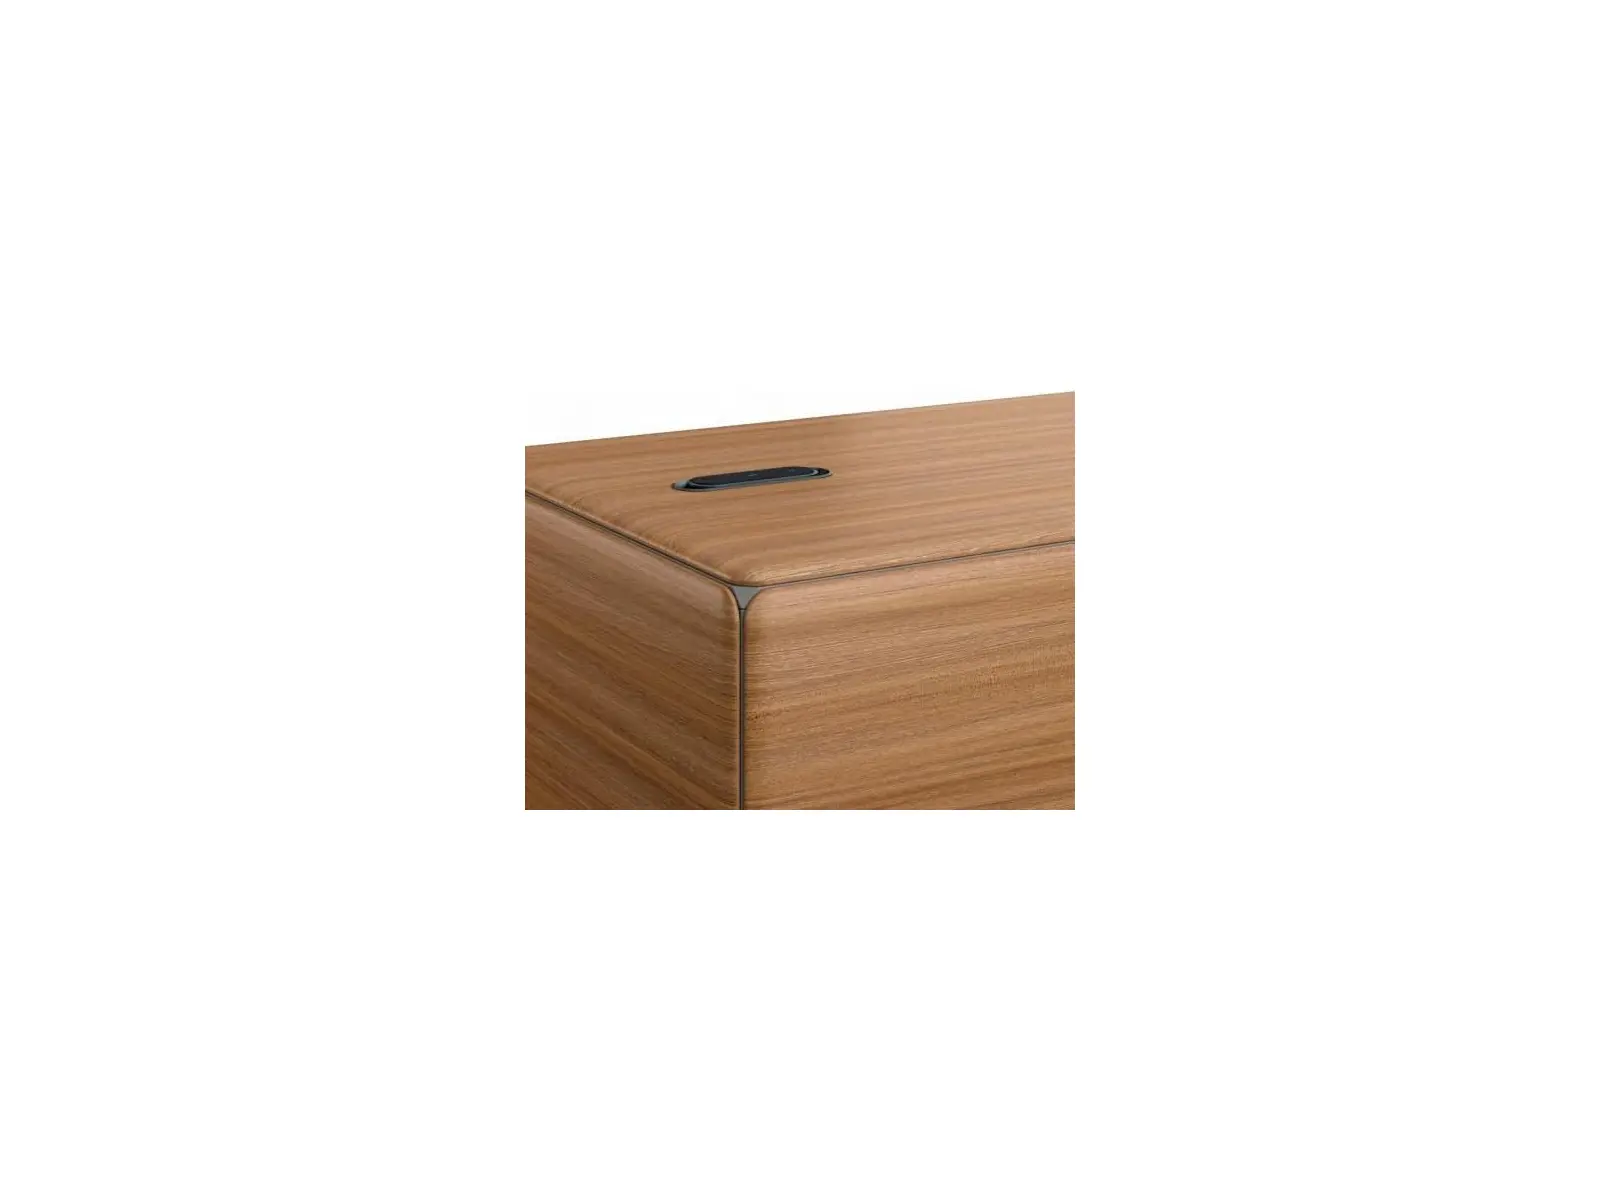
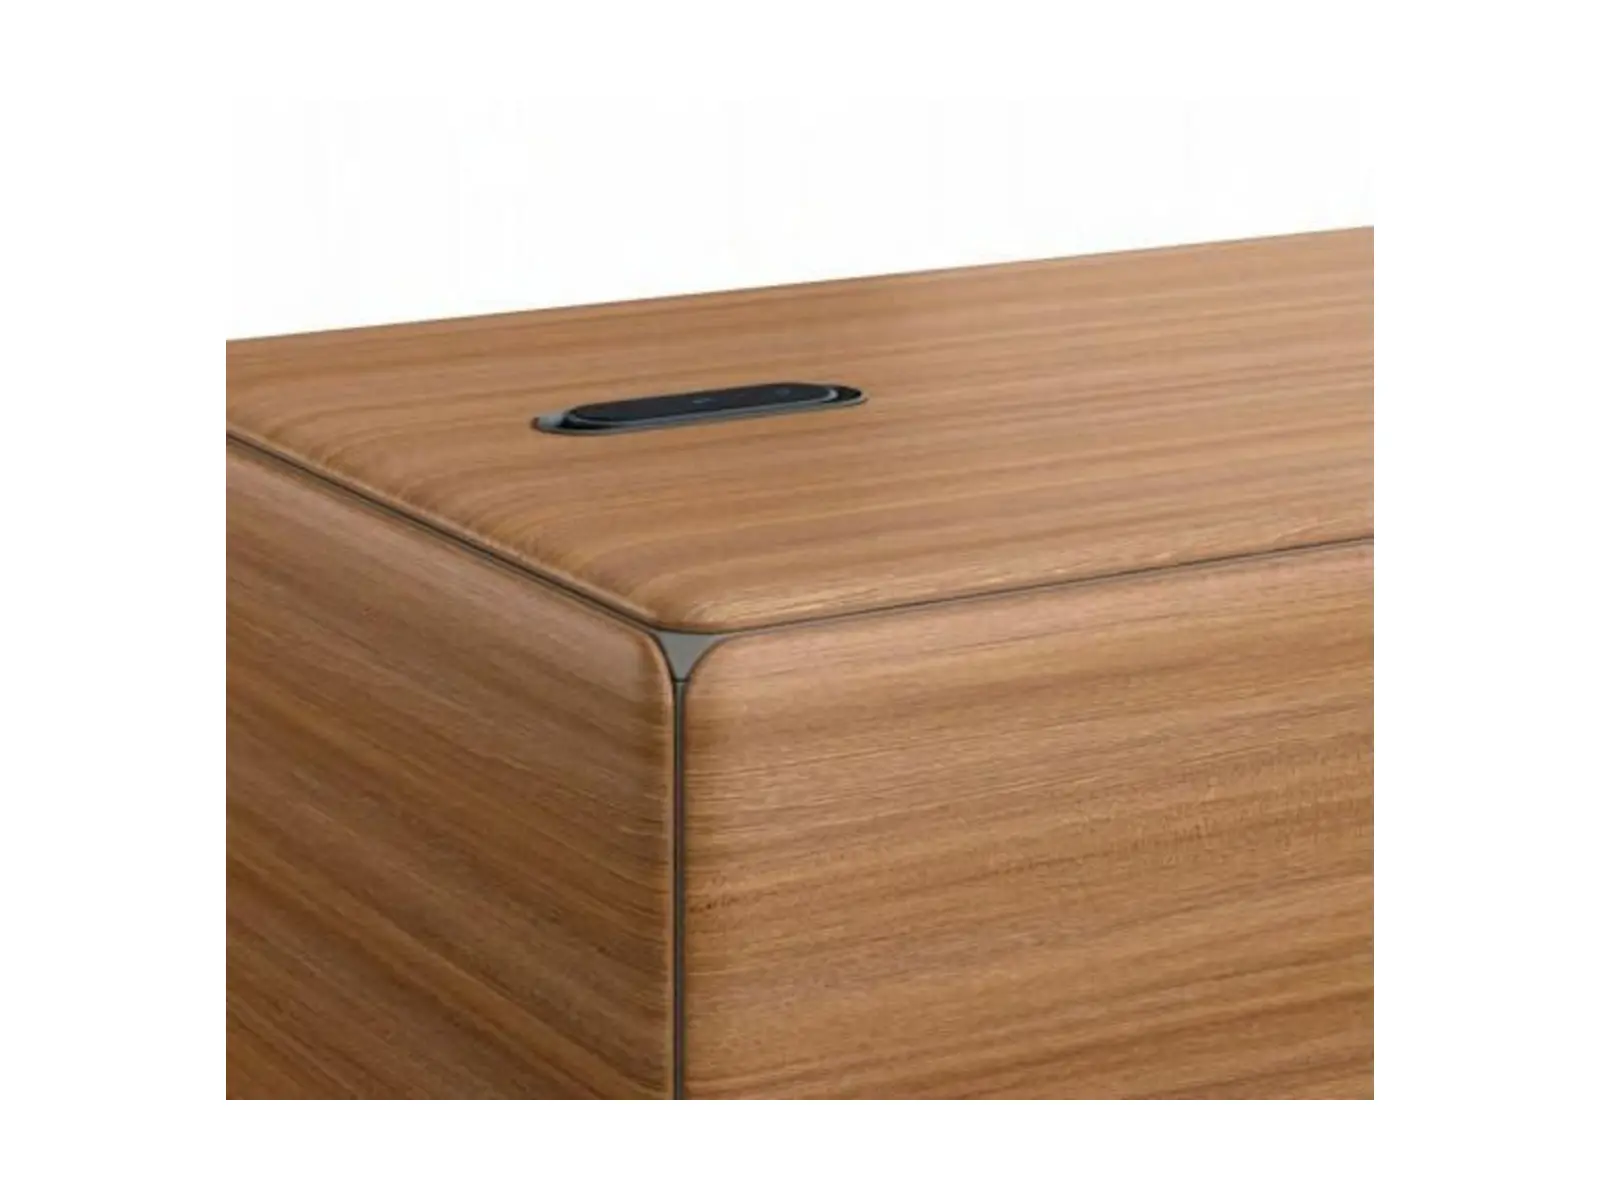
Refine executive desk gallery images

diff --git a/products/do-sdg-01d32-executive-office-desk.html b/products/do-sdg-01d32-executive-office-desk.html
@@ -1,4 +1,4 @@
-<!doctype html><html lang="en"><head><meta charset="utf-8"><meta name="viewport" content="width=device-width,initial-scale=1"><title>DO-SDG-01D32 Executive Office Desk | HUANGSI</title><meta name="description" content="HUANGSI DO-SDG-01D32 executive office desk for commercial interiors, project purchasing and OEM configuration for distributors and commercial projects."><link rel="canonical" href="https://huangsifurniture.com/products/do-sdg-01d32-executive-office-desk"><meta property="og:type" content="product"><meta property="og:site_name" content="HUANGSI"><meta property="og:title" content="DO-SDG-01D32 Executive Office Desk | HUANGSI"><meta property="og:description" content="HUANGSI DO-SDG-01D32 executive office desk for commercial interiors, project purchasing and OEM configuration for distributors and commercial projects."><meta property="og:url" content="https://huangsifurniture.com/products/do-sdg-01d32-executive-office-desk"><meta property="og:image" content="https://huangsifurniture.com/assets/images/executive-desk-details/do-sdg-01d32/view-01.webp"><meta name="twitter:card" content="summary_large_image"><link rel="preload" as="image" href="/assets/images/executive-desk-details/do-sdg-01d32/view-01.webp" fetchpriority="high"><link rel="icon" href="/favicon.svg" type="image/svg+xml"><link rel="stylesheet" href="/assets/css/styles.css"><link rel="stylesheet" href="/assets/css/m15-chair-detail.css"><link rel="stylesheet" href="/assets/css/executive-desk-detail-gallery.css"><script defer src="/assets/js/main.js"></script><script defer src="/assets/js/m15-chair-detail.js"></script><script type="application/ld+json">{"@context":"https://schema.org","@type":"Product","name":"DO-SDG-01D32 Executive Office Desk","sku":"DO-SDG-01D32","description":"HUANGSI DO-SDG-01D32 executive office desk for commercial interiors, project purchasing and OEM configuration for distributors and commercial projects.","brand":{"@type":"Brand","name":"HUANGSI"},"manufacturer":{"@type":"Organization","name":"Foshan Huangsi Furniture Co., Ltd."},"category":"President's Tables and Executive Office Desks","url":"https://huangsifurniture.com/products/do-sdg-01d32-executive-office-desk","image":["https://huangsifurniture.com/assets/images/executive-desk-details/do-sdg-01d32/view-01.webp","https://huangsifurniture.com/assets/images/executive-desk-details/do-sdg-01d32/view-02.webp","https://huangsifurniture.com/assets/images/executive-desk-details/do-sdg-01d32/view-03.webp"]}</script><script type="application/ld+json">{"@context":"https://schema.org","@type":"BreadcrumbList","itemListElement":[{"@type":"ListItem","position":1,"name":"Home","item":"https://huangsifurniture.com/"},{"@type":"ListItem","position":2,"name":"President's Tables","item":"https://huangsifurniture.com/products/executive-office-desk/page-4"},{"@type":"ListItem","position":3,"name":"DO-SDG-01D32","item":"https://huangsifurniture.com/products/do-sdg-01d32-executive-office-desk"}]}</script></head><body class="m15-page executive-desk-detail-page" style="--gallery-columns:3"><div class="topbar home-topbar">
+<!doctype html><html lang="en"><head><meta charset="utf-8"><meta name="viewport" content="width=device-width,initial-scale=1"><title>DO-SDG-01D32 Executive Office Desk | HUANGSI</title><meta name="description" content="HUANGSI DO-SDG-01D32 executive office desk for commercial interiors, project purchasing and OEM configuration for distributors and commercial projects."><link rel="canonical" href="https://huangsifurniture.com/products/do-sdg-01d32-executive-office-desk"><meta property="og:type" content="product"><meta property="og:site_name" content="HUANGSI"><meta property="og:title" content="DO-SDG-01D32 Executive Office Desk | HUANGSI"><meta property="og:description" content="HUANGSI DO-SDG-01D32 executive office desk for commercial interiors, project purchasing and OEM configuration for distributors and commercial projects."><meta property="og:url" content="https://huangsifurniture.com/products/do-sdg-01d32-executive-office-desk"><meta property="og:image" content="https://huangsifurniture.com/assets/images/executive-desk-details/do-sdg-01d32/view-01.webp"><meta name="twitter:card" content="summary_large_image"><link rel="preload" as="image" href="/assets/images/executive-desk-details/do-sdg-01d32/view-01.webp" fetchpriority="high"><link rel="icon" href="/favicon.svg" type="image/svg+xml"><link rel="stylesheet" href="/assets/css/styles.css"><link rel="stylesheet" href="/assets/css/m15-chair-detail.css"><link rel="stylesheet" href="/assets/css/executive-desk-detail-gallery.css"><script defer src="/assets/js/main.js"></script><script defer src="/assets/js/m15-chair-detail.js"></script><script type="application/ld+json">{"@context":"https://schema.org","@type":"Product","name":"DO-SDG-01D32 Executive Office Desk","sku":"DO-SDG-01D32","description":"HUANGSI DO-SDG-01D32 executive office desk for commercial interiors, project purchasing and OEM configuration for distributors and commercial projects.","brand":{"@type":"Brand","name":"HUANGSI"},"manufacturer":{"@type":"Organization","name":"Foshan Huangsi Furniture Co., Ltd."},"category":"President's Tables and Executive Office Desks","url":"https://huangsifurniture.com/products/do-sdg-01d32-executive-office-desk","image":["https://huangsifurniture.com/assets/images/executive-desk-details/do-sdg-01d32/view-01.webp","https://huangsifurniture.com/assets/images/executive-desk-details/do-sdg-01d32/view-02.webp"]}</script><script type="application/ld+json">{"@context":"https://schema.org","@type":"BreadcrumbList","itemListElement":[{"@type":"ListItem","position":1,"name":"Home","item":"https://huangsifurniture.com/"},{"@type":"ListItem","position":2,"name":"President's Tables","item":"https://huangsifurniture.com/products/executive-office-desk/page-4"},{"@type":"ListItem","position":3,"name":"DO-SDG-01D32","item":"https://huangsifurniture.com/products/do-sdg-01d32-executive-office-desk"}]}</script></head><body class="m15-page executive-desk-detail-page" style="--gallery-columns:2"><div class="topbar home-topbar">
     <div class="container">
       <span>Commercial office furniture for distributors, contractors and project buyers</span>
       <span>OEM / ODM &nbsp;·&nbsp; Bulk Export &nbsp;·&nbsp; Mixed-Container Planning</span>
@@ -77,4 +77,4 @@
 
       </nav>
     </div>
-  </header><main><section class="m15-product" id="images"><nav class="m15-breadcrumbs" aria-label="Breadcrumb"><a href="/">Home</a><span>/</span><a href="/products/executive-office-desk/page-4">President's Tables</a><span>/</span><span>DO-SDG-01D32</span></nav><div class="m15-product-grid"><div class="m15-product-copy"><span class="m15-eyebrow">Executive Office Desks</span><h1>DO-SDG-01D32 Executive Office Desk</h1><p class="m15-byline">by HUANGSI</p><p class="m15-intro">A contemporary executive desk designed for professional offices, commercial projects and coordinated workplace interiors.</p><div class="executive-desk-configurations"><span>Project sizes</span><span>Finish options</span><span>OEM / ODM</span></div><div class="m15-actions"><a class="m15-button m15-button--primary" href="/contact?product=DO-SDG-01D32">Request project quote</a><a class="m15-button" href="#specifications">View configuration</a></div><p class="m15-note">Final dimensions, finish, storage, power configuration and packing are confirmed with the quotation and approved sample.</p></div><div class="m15-gallery" data-m15-gallery aria-label="DO-SDG-01D32 product image gallery"><div class="m15-track" data-gallery-track tabindex="0" aria-live="polite"><figure class="m15-slide" data-gallery-slide><img src="/assets/images/executive-desk-details/do-sdg-01d32/view-01.webp" width="1600" height="1200" alt="DO-SDG-01D32 executive office desk, product view 1" fetchpriority="high"></figure><figure class="m15-slide" data-gallery-slide><img src="/assets/images/executive-desk-details/do-sdg-01d32/view-02.webp" width="1600" height="1200" alt="DO-SDG-01D32 executive office desk, product view 2" loading="lazy"></figure><figure class="m15-slide" data-gallery-slide><img src="/assets/images/executive-desk-details/do-sdg-01d32/view-03.webp" width="1600" height="1200" alt="DO-SDG-01D32 executive office desk, product view 3" loading="lazy"></figure></div><div class="m15-gallery-controls"><div class="m15-gallery-arrows"><button type="button" data-gallery-prev aria-label="Previous product image">←</button><button type="button" data-gallery-next aria-label="Next product image">→</button></div><span class="m15-count"><b data-gallery-current>01</b> / <span>03</span></span><div class="m15-dots" aria-label="Choose product image"><button type="button" data-gallery-dot="0" aria-label="Show image 1" aria-current="true"></button><button type="button" data-gallery-dot="1" aria-label="Show image 2"></button><button type="button" data-gallery-dot="2" aria-label="Show image 3"></button></div></div><div class="m15-thumbnails"><button type="button" data-gallery-thumb="0" aria-current="true"><img src="/assets/images/executive-desk-details/do-sdg-01d32/view-01.webp" width="1600" height="1200" alt="DO-SDG-01D32 view 1 thumbnail" loading="lazy"></button><button type="button" data-gallery-thumb="1"><img src="/assets/images/executive-desk-details/do-sdg-01d32/view-02.webp" width="1600" height="1200" alt="DO-SDG-01D32 view 2 thumbnail" loading="lazy"></button><button type="button" data-gallery-thumb="2"><img src="/assets/images/executive-desk-details/do-sdg-01d32/view-03.webp" width="1600" height="1200" alt="DO-SDG-01D32 view 3 thumbnail" loading="lazy"></button></div></div></div></section><nav class="m15-anchor-nav" aria-label="Product page sections"><a href="#images">Images</a><a href="#specifications">Configuration</a><a href="#materials">Overview</a><a href="/contact?product=DO-SDG-01D32">Inquiry</a></nav><section class="m15-overview" id="materials"><div class="m15-content"><div><span class="m15-eyebrow">Executive workspace</span><h2>Coordinated design for commercial projects.</h2></div><p>HUANGSI DO-SDG-01D32 executive office desk for commercial interiors, project purchasing and OEM configuration for distributors and commercial projects. Dimensions, finishes, storage and accessories can be reviewed against project quantity.</p></div><div class="m15-feature-grid"><article><span>01</span><h3>Executive presence</h3><p>Distinctive geometry and coordinated finishes create a refined office centerpiece.</p></article><article><span>02</span><h3>Integrated function</h3><p>Storage, power and cable-management options can be configured for organized daily work.</p></article><article><span>03</span><h3>Project customization</h3><p>Dimensions, finishes and accessories can be evaluated for bulk and OEM orders.</p></article></div></section><section class="m15-specs" id="specifications"><div class="m15-specs-heading"><span class="m15-eyebrow">DO-SDG-01D32 configuration</span><h2>Project-ready options.</h2><p>Final specifications are confirmed against the approved quotation and sample.</p></div><div class="m15-spec-table" role="table" aria-label="DO-SDG-01D32 configuration"><div role="row"><b role="cell">Model</b><span role="cell">DO-SDG-01D32</span></div><div role="row"><b role="cell">Category</b><span role="cell">Executive office desk</span></div><div role="row"><b role="cell">Available options</b><span role="cell">Dimensions, finishes, storage, power and cable management</span></div><div role="row"><b role="cell">Commercial supply</b><span role="cell">Bulk project purchasing and OEM / ODM configuration</span></div></div></section><section class="m15-cta"><div><span class="m15-eyebrow">Commercial project supply</span><h2>Specify DO-SDG-01D32 for your executive office project.</h2></div><div><p>Send quantity, destination, preferred finish and timeline for configuration review and export quotation.</p><a class="m15-button m15-button--light" href="/contact?product=DO-SDG-01D32">Request DO-SDG-01D32 details</a></div></section></main><footer class="footer"><div class="container footer-grid"><div><a class="brand" href="/"><img src="/assets/images/logo-huangsi.png" width="1105" height="170" alt="HUANGSI logo"></a><p>Commercial office furniture manufacturer for workstations, office chairs, desks, storage, acoustic solutions and OEM projects.</p><div class="badge-row"><span class="badge">Bulk Export</span><span class="badge">OEM / ODM</span><span class="badge">Project Supply</span></div></div><div><h4>Products</h4><a href="/products/office-workstation">Office Workstations</a><a href="/products/mesh-office-chairs">Mesh Office Chairs</a><a href="/products/leather-office-chair">Leather Office Chairs</a><a href="/products/executive-office-desk">Executive Desks</a></div><div><h4>Solutions</h4><a href="/applications/corporate-office-projects">Corporate Offices</a><a href="/applications/co-working-space-furniture">Co-working Spaces</a><a href="/products/acoustic-wall-panels">Acoustic Panels</a><a href="/oem-manufacturing">OEM Manufacturing</a></div><div><h4>Contact</h4><a href="mailto:huangsifurniture@gmail.com">huangsifurniture@gmail.com</a><a href="tel:+8613928602558">+8613928602558</a><a href="/contact">Send RFQ</a><a href="/catalog">Request Catalog</a></div></div><div class="container footer-bottom"><span>© 2026 Foshan Huangsi Furniture Co., Ltd. All rights reserved.</span><span class="footer-legal"><a href="/privacy">Privacy</a> · <a href="/terms">Terms</a> · <a href="/sitemap.xml">Sitemap</a></span></div></footer></body></html>
+  </header><main><section class="m15-product" id="images"><nav class="m15-breadcrumbs" aria-label="Breadcrumb"><a href="/">Home</a><span>/</span><a href="/products/executive-office-desk/page-4">President's Tables</a><span>/</span><span>DO-SDG-01D32</span></nav><div class="m15-product-grid"><div class="m15-product-copy"><span class="m15-eyebrow">Executive Office Desks</span><h1>DO-SDG-01D32 Executive Office Desk</h1><p class="m15-byline">by HUANGSI</p><p class="m15-intro">A contemporary executive desk designed for professional offices, commercial projects and coordinated workplace interiors.</p><div class="executive-desk-configurations"><span>Project sizes</span><span>Finish options</span><span>OEM / ODM</span></div><div class="m15-actions"><a class="m15-button m15-button--primary" href="/contact?product=DO-SDG-01D32">Request project quote</a><a class="m15-button" href="#specifications">View configuration</a></div><p class="m15-note">Final dimensions, finish, storage, power configuration and packing are confirmed with the quotation and approved sample.</p></div><div class="m15-gallery" data-m15-gallery aria-label="DO-SDG-01D32 product image gallery"><div class="m15-track" data-gallery-track tabindex="0" aria-live="polite"><figure class="m15-slide" data-gallery-slide><img src="/assets/images/executive-desk-details/do-sdg-01d32/view-01.webp" width="1600" height="1200" alt="DO-SDG-01D32 executive office desk, product view 1" fetchpriority="high"></figure><figure class="m15-slide" data-gallery-slide><img src="/assets/images/executive-desk-details/do-sdg-01d32/view-02.webp" width="1600" height="1200" alt="DO-SDG-01D32 executive office desk, product view 2" loading="lazy"></figure></div><div class="m15-gallery-controls"><div class="m15-gallery-arrows"><button type="button" data-gallery-prev aria-label="Previous product image">←</button><button type="button" data-gallery-next aria-label="Next product image">→</button></div><span class="m15-count"><b data-gallery-current>01</b> / <span>02</span></span><div class="m15-dots" aria-label="Choose product image"><button type="button" data-gallery-dot="0" aria-label="Show image 1" aria-current="true"></button><button type="button" data-gallery-dot="1" aria-label="Show image 2"></button></div></div><div class="m15-thumbnails"><button type="button" data-gallery-thumb="0" aria-current="true"><img src="/assets/images/executive-desk-details/do-sdg-01d32/view-01.webp" width="1600" height="1200" alt="DO-SDG-01D32 view 1 thumbnail" loading="lazy"></button><button type="button" data-gallery-thumb="1"><img src="/assets/images/executive-desk-details/do-sdg-01d32/view-02.webp" width="1600" height="1200" alt="DO-SDG-01D32 view 2 thumbnail" loading="lazy"></button></div></div></div></section><nav class="m15-anchor-nav" aria-label="Product page sections"><a href="#images">Images</a><a href="#specifications">Configuration</a><a href="#materials">Overview</a><a href="/contact?product=DO-SDG-01D32">Inquiry</a></nav><section class="m15-overview" id="materials"><div class="m15-content"><div><span class="m15-eyebrow">Executive workspace</span><h2>Coordinated design for commercial projects.</h2></div><p>HUANGSI DO-SDG-01D32 executive office desk for commercial interiors, project purchasing and OEM configuration for distributors and commercial projects. Dimensions, finishes, storage and accessories can be reviewed against project quantity.</p></div><div class="m15-feature-grid"><article><span>01</span><h3>Executive presence</h3><p>Distinctive geometry and coordinated finishes create a refined office centerpiece.</p></article><article><span>02</span><h3>Integrated function</h3><p>Storage, power and cable-management options can be configured for organized daily work.</p></article><article><span>03</span><h3>Project customization</h3><p>Dimensions, finishes and accessories can be evaluated for bulk and OEM orders.</p></article></div></section><section class="m15-specs" id="specifications"><div class="m15-specs-heading"><span class="m15-eyebrow">DO-SDG-01D32 configuration</span><h2>Project-ready options.</h2><p>Final specifications are confirmed against the approved quotation and sample.</p></div><div class="m15-spec-table" role="table" aria-label="DO-SDG-01D32 configuration"><div role="row"><b role="cell">Model</b><span role="cell">DO-SDG-01D32</span></div><div role="row"><b role="cell">Category</b><span role="cell">Executive office desk</span></div><div role="row"><b role="cell">Available options</b><span role="cell">Dimensions, finishes, storage, power and cable management</span></div><div role="row"><b role="cell">Commercial supply</b><span role="cell">Bulk project purchasing and OEM / ODM configuration</span></div></div></section><section class="m15-cta"><div><span class="m15-eyebrow">Commercial project supply</span><h2>Specify DO-SDG-01D32 for your executive office project.</h2></div><div><p>Send quantity, destination, preferred finish and timeline for configuration review and export quotation.</p><a class="m15-button m15-button--light" href="/contact?product=DO-SDG-01D32">Request DO-SDG-01D32 details</a></div></section></main><footer class="footer"><div class="container footer-grid"><div><a class="brand" href="/"><img src="/assets/images/logo-huangsi.png" width="1105" height="170" alt="HUANGSI logo"></a><p>Commercial office furniture manufacturer for workstations, office chairs, desks, storage, acoustic solutions and OEM projects.</p><div class="badge-row"><span class="badge">Bulk Export</span><span class="badge">OEM / ODM</span><span class="badge">Project Supply</span></div></div><div><h4>Products</h4><a href="/products/office-workstation">Office Workstations</a><a href="/products/mesh-office-chairs">Mesh Office Chairs</a><a href="/products/leather-office-chair">Leather Office Chairs</a><a href="/products/executive-office-desk">Executive Desks</a></div><div><h4>Solutions</h4><a href="/applications/corporate-office-projects">Corporate Offices</a><a href="/applications/co-working-space-furniture">Co-working Spaces</a><a href="/products/acoustic-wall-panels">Acoustic Panels</a><a href="/oem-manufacturing">OEM Manufacturing</a></div><div><h4>Contact</h4><a href="mailto:huangsifurniture@gmail.com">huangsifurniture@gmail.com</a><a href="tel:+8613928602558">+8613928602558</a><a href="/contact">Send RFQ</a><a href="/catalog">Request Catalog</a></div></div><div class="container footer-bottom"><span>© 2026 Foshan Huangsi Furniture Co., Ltd. All rights reserved.</span><span class="footer-legal"><a href="/privacy">Privacy</a> · <a href="/terms">Terms</a> · <a href="/sitemap.xml">Sitemap</a></span></div></footer></body></html>
